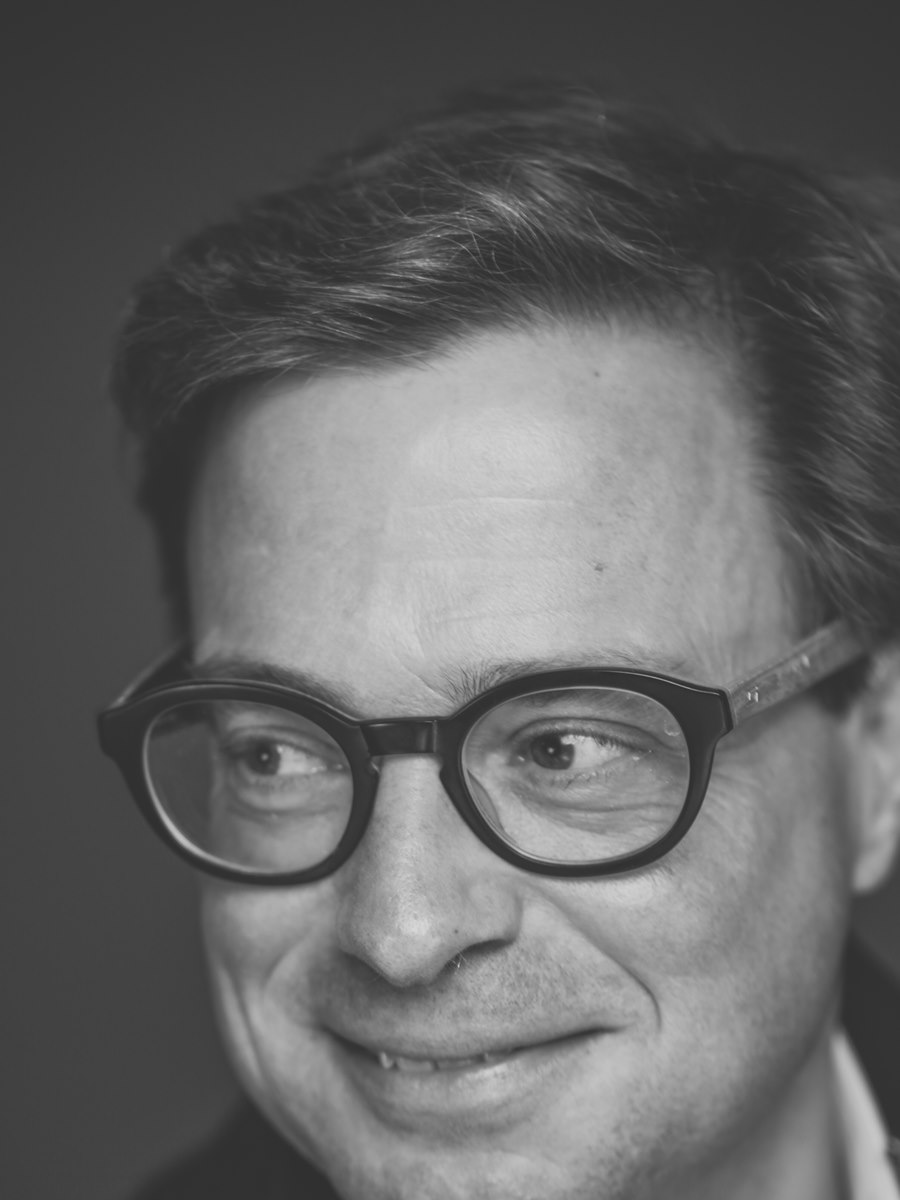
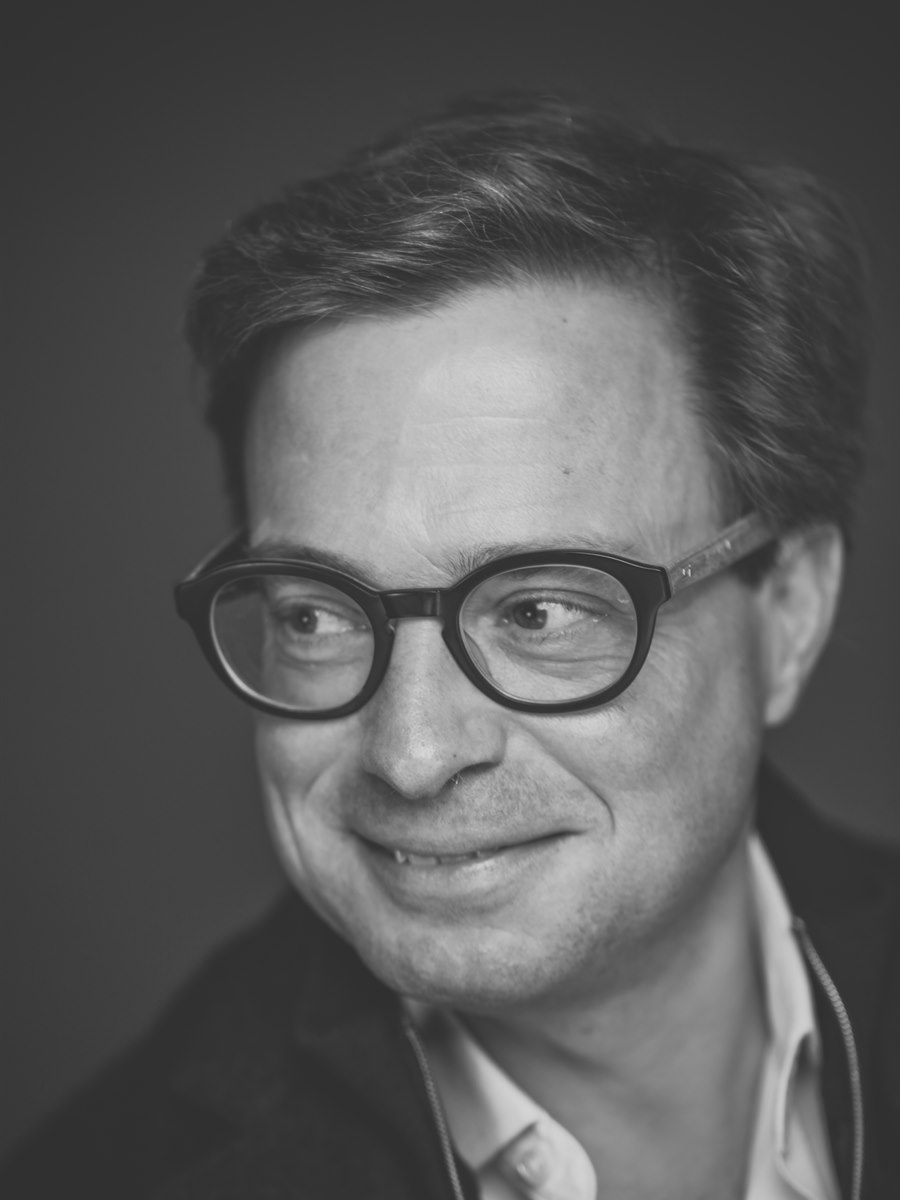
Subpages angepasst

diff --git a/index.html b/index.html
@@ -111,12 +111,12 @@
             <h3>Stefan Muelheim</h3>
             <p class="role">Partner</p>
             <ul>
-              <li>30+ years in Family Office and UHNW Advisory.</li>
-              <li>Advises entrepreneurs on wealth growth, structuring and transitions.</li>
-              <li>Board-level experience from a global investment bank.</li>
-              <li>Hands-on leadership of single- and multi-family office structures.</li>
-              <li>Track record in governance, asset allocation and cross-border situations.</li>
-              <li>Trusted sparring partner across Switzerland, Germany, the UK and Europe.</li>
+              <li>40+ years across institutional capital markets, private banking, and single family office</li>
+              <li>BaFin-approved Board Member, Citigroup Global Markets Deutschland &mdash; &euro;240M revenues, 160 staff</li>
+              <li>Member, Exchange Council of Eurex Deutschland (statutory board with veto rights)</li>
+              <li>Founder &amp; CEO, Single Family Office, Mayfair London</li>
+              <li>Founding Partner, Runa Advisors &mdash; boutique advisory for international UHNW families</li>
+              <li>Alumni: Deutsche Bank &middot; Dillon Read &middot; Salomon Brothers &middot; Citigroup &middot; Bedrock Group</li>
             </ul>
             <a href="mailto:info@runa-advisors.com">Connect <span aria-hidden="true">→</span></a>
           </div>
@@ -145,10 +145,11 @@
             <h3>Christopher Knothe</h3>
             <p class="role">Partner</p>
             <ul>
-              <li>DIX Global, Family Office centric direct investment / club deal platform in JV with two Single Family Offices.</li>
-              <li>Focus on direct investments (VC/PE/PD and real assets) globally, debt solutions, financing and banking service solutions for Family Offices and entrepreneurial families.</li>
-              <li>Senior Advisor for 3 international Single Family Offices (succession planning, wealth &amp; tax planning, alternative investments).</li>
-              <li>Former Managing Director at Swiss Private Bank, managing P&amp;L of 2.5Bn in AuM.</li>
+              <li>MBA and economics background with early experience in financial-services management consulting.</li>
+              <li>Senior private banking roles across UBS, Coutts and UBP, advising entrepreneurial families and UHNW clients.</li>
+              <li>Hedge fund experience with Man Group London and a strong network across alternative investments.</li>
+              <li>Founder and entrepreneur behind DIX Global, a family-office direct investment and club-deal platform.</li>
+              <li>Deep network at the Liechtenstein financial centre across foundation structuring, fiduciary services and wealth management.</li>
             </ul>
             <a href="#contact">Connect <span aria-hidden="true">→</span></a>
           </div>
@@ -160,13 +161,10 @@
             <h3>Ruben Donath</h3>
             <p class="role">COO</p>
             <ul>
-              <li>Strategic advisor and digital consultant.</li>
-              <li>Early stage start-up advisor.</li>
-              <li>Fintech interim Head of Marketing.</li>
-              <li>UBS AG, Zurich - Senior Marketing Director Sustainable &amp; Impact Investing.</li>
-              <li>UFA AG, Berlin - Head of Entertainment Marketing &amp; Business Development.</li>
-              <li>Global network to Hollywood entertainment intellectual property&rsquo;s.</li>
-              <li>Sustainable and plant-based food tech advocate for many years.</li>
+              <li>Senior Marketing Director Sustainable &amp; Impact Investing at UBS AG Zurich.</li>
+              <li>Strategic advisor and digital consultant for growth, positioning and transformation topics.</li>
+              <li>Interim Head of Marketing for fintech and early-stage venture environments.</li>
+              <li>Alumnus of ArtCenter College of Design with an American-German background.</li>
             </ul>
             <a href="#contact">Connect <span aria-hidden="true">→</span></a>
           </div>
@@ -207,10 +205,7 @@
         <input type="hidden" name="_template" value="table">
         <input type="hidden" name="_captcha" value="false">
         <input class="form-honey" type="text" name="_honey" tabindex="-1" autocomplete="off" aria-hidden="true">
-        <div class="field-row">
-          <label>First Name<input name="firstName" autocomplete="given-name" required></label>
-          <label>Last Name<input name="lastName" autocomplete="family-name" required></label>
-        </div>
+        <label>Name<input name="name" autocomplete="name" required></label>
         <label>Email<input type="email" name="email" autocomplete="email" required></label>
         <label>Message<textarea name="message" rows="4" required></textarea></label>
         <button class="button button-dark" type="submit">Contact <span aria-hidden="true">→</span></button>
@@ -225,7 +220,7 @@
         <a href="#focus">Focus</a>
         <a href="#team">Team</a>
       </nav>
-      <a href="https://www.linkedin.com/" aria-label="Runa Advisors on LinkedIn">LinkedIn</a>
+      <a href="https://www.linkedin.com/company/runa-advisors/" aria-label="Runa Advisors on LinkedIn">LinkedIn</a>
     </div>
   </footer>
 

diff --git a/usp-wealth-asset-management.html b/usp-wealth-asset-management.html
@@ -40,20 +40,12 @@
           <p><span class="usp-summary">A consolidated view clarifies what the family owns, needs and expects from its capital.</span><span class="usp-detail">Listed assets, private assets, real estate and art are reviewed against current weightings, liquidity requirements, return objectives and the family&rsquo;s broader needs profile.</span></p>
         </article>
         <article class="usp-info-card">
-          <h2>Return Requirements & Strategy</h2>
-          <p><span class="usp-summary">Return expectations are translated into a clear and practical investment direction.</span><span class="usp-detail">Asset allocation is designed around return targets, personal preferences, liquidity needs and sustainable yield objectives, turning family priorities into a workable investment strategy.</span></p>
+          <h2>Return Strategy & Asset Allocation</h2>
+          <p><span class="usp-summary">Return targets, personal preferences and liquidity needs are translated into a practical investment strategy.</span><span class="usp-detail">The implementation approach is selected across direct investments, active funds and ETFs, including service provider selection and investment committee setup.</span></p>
         </article>
         <article class="usp-info-card">
-          <h2>Asset Allocation & Investment Process</h2>
-          <p><span class="usp-summary">The portfolio architecture defines how capital should actually be implemented.</span><span class="usp-detail">Implementation is selected across direct investments, active funds and ETFs, including service provider selection, investment committee setup and ongoing decision governance.</span></p>
-        </article>
-        <article class="usp-info-card">
-          <h2>Reporting & Controlling</h2>
-          <p><span class="usp-summary">Transparent reporting makes performance, risk and costs visible across the full structure.</span><span class="usp-detail">Consolidated reporting and controlling tools are implemented across asset classes, custodians and service provider relationships to create one reliable view.</span></p>
-        </article>
-        <article class="usp-info-card">
-          <h2>Stakeholder Management</h2>
-          <p><span class="usp-summary">Banks, funds and service providers are coordinated so the family setup becomes less fragmented.</span><span class="usp-detail">Trust companies, funds, banks and other financial service providers are managed across onboarding, pricing and reporting consolidation.</span></p>
+          <h2>Reporting, Controlling & Stakeholders</h2>
+          <p><span class="usp-summary">Transparent reporting and provider coordination create one reliable view across the full structure.</span><span class="usp-detail">Consolidated reporting and controlling tools are implemented across asset classes and custodians, while trust companies, funds, banks and other providers are managed across onboarding, pricing and reporting consolidation.</span></p>
         </article>
         <article class="usp-info-card">
           <h2>Risk Management</h2>

diff --git a/styles.css b/styles.css
@@ -734,7 +734,6 @@ footer { padding: 140px max(7%, calc((100% - var(--content)) / 2)) 45px; backgro
 .contact-details { margin-top: 48px; display: flex; flex-direction: column; align-items: flex-start; gap: 13px; font-size: 13px; }
 .contact-details address { margin-top: 10px; font-style: normal; }
 .contact-form { padding: 45px; background: linear-gradient(145deg, var(--ice), rgba(221,239,247,.65)); }
-.field-row { display: grid; grid-template-columns: 1fr 1fr; gap: 20px; }
 .contact-form label { margin-bottom: 20px; display: block; font-size: 10px; font-weight: 600; letter-spacing: .08em; text-transform: uppercase; }
 .contact-form input, .contact-form textarea {
   width: 100%;
@@ -973,7 +972,6 @@ footer { padding: 140px max(7%, calc((100% - var(--content)) / 2)) 45px; backgro
   .usp-next-row { flex-direction: column; }
   footer { padding-top: 100px; }
   .contact-form { padding: 30px 22px; }
-  .field-row { grid-template-columns: 1fr; gap: 0; }
   .footer-bottom { grid-template-columns: 1fr; gap: 18px; }
   .footer-bottom nav { order: -1; flex-wrap: wrap; }
   .footer-bottom > a { justify-self: start; }

diff --git a/usp-direct-investments.html b/usp-direct-investments.html
@@ -51,10 +51,6 @@
           <h2>Independent Due Diligence</h2>
           <p><span class="usp-summary">Independent diligence helps families assess private asset transactions before committing capital.</span><span class="usp-detail">Support covers PE, VC, real estate and private debt opportunities, including transaction structuring, full documentation and investment committee process support.</span></p>
         </article>
-        <article class="usp-info-card">
-          <h2>Exclusive network access</h2>
-          <p><span class="usp-summary">The network creates access where trust and relevance matter more than volume.</span><span class="usp-detail">Access is built around family office co-investors, PE, VC and private debt funds, selected hedge fund partnerships and discreet asset sales.</span></p>
-        </article>
       </div>
       <div class="usp-next-row">
         <a href="usp-wealth-planning.html">← Previous: Wealth Planning</a>
